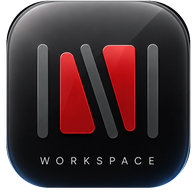
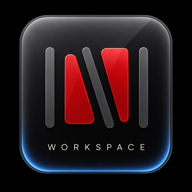
g

diff --git a/index.html b/index.html
@@ -1,12 +1,12 @@
 <!doctype html><html lang="it"><head>
-  <link rel="manifest" href="./manifest.webmanifest?v=18-1">
+  <link rel="manifest" href="./manifest.webmanifest?v=18-2">
   
   
 <meta charset="utf-8"><meta name="viewport" content="width=device-width,initial-scale=1,viewport-fit=cover"><meta name="theme-color" content="#0b0d11"><title>DVS Workspace</title>
 
-<link rel="stylesheet" href="css/app.css?v=18-1">      <link rel="icon" type="image/png" sizes="192x192" href="./assets/workspace-icon-192.png?v=18-1">
-  <link rel="icon" type="image/png" sizes="512x512" href="./assets/workspace-icon-512.png?v=18-1">
-  <link rel="apple-touch-icon" sizes="192x192" href="./assets/workspace-icon-192.png?v=18-1">
+<link rel="stylesheet" href="css/app.css?v=18-2">      <link rel="icon" type="image/png" sizes="192x192" href="./assets/workspace-icon-192.png?v=18-2">
+  <link rel="icon" type="image/png" sizes="512x512" href="./assets/workspace-icon-512.png?v=18-2">
+  <link rel="apple-touch-icon" sizes="180x180" href="./assets/apple-touch-icon.png?v=18-2">
 </head><body>
 <div id="splash" class="splash"><img src="assets/logo-dvs.png" alt="Digital Video Service"></div>
 <section id="login" class="login hidden"><form id="login-form" class="login-card glass"><img src="assets/logo-dvs.png" alt="Digital Video Service"><h1>Gestionale Tecnico</h1><p>Accedi con l'utente creato su Supabase.</p><label>Email<input id="email" type="email" autocomplete="username" required></label><label>Password<input id="password" type="password" autocomplete="current-password" required></label>
@@ -17,5 +17,5 @@
 <section class="workspace"><header class="topbar glass"><div><small id="greeting">Digital Video Service</small><h1 id="title">Dashboard</h1></div><div class="top-actions"><button id="search-btn" class="icon-btn" title="Ricerca">⌕</button><button id="add-btn" class="icon-btn add" title="Aggiungi">＋</button></div></header><main id="app"></main></section>
 <nav id="mobile-nav" class="mobile-nav glass"></nav></div>
 <dialog id="modal"><div id="modal-body" class="modal-card glass"></div></dialog><dialog id="sheet"><div id="sheet-body" class="sheet-card glass"></div></dialog><div id="toast" class="toast hidden"></div>
-<script src="js/pdf-lib.min.js?v=18-1"></script>
-<script type="module" src="js/app.js?v=18-1"></script></body></html>
+<script src="js/pdf-lib.min.js?v=18-2"></script>
+<script type="module" src="js/app.js?v=18-2"></script></body></html>

diff --git a/js/app.js b/js/app.js
@@ -3,8 +3,8 @@ import { loadAll, saveRow, removeRow, archiveRow, assignResource, assignPlugin, 
 import { esc, fmtDate, numSort, licenseStatus, cycleLabel, todayISO } from './utils.js';
 
 const APP_NAME='DVS Workspace';
-const APP_VERSION='18.1';
-const APP_RELEASE='Workspace v18.1 · 08/2026';
+const APP_VERSION='18.2';
+const APP_RELEASE='Workspace v18.2 · 08/2026';
 const DATABASE_SCHEMA='4.3.1 + V12 backup metadata';
 
 const VAPID_PUBLIC_KEY='BLidTsO_r-SgpMHvPD0KC3jv39ZHLcdOfoTAR0IHDemM1dTQrLUM7WoUCA8FwfxXlCmA_KV4rnEXdBqlCXixNJc';
@@ -2475,7 +2475,7 @@ function base64UrlToUint8Array(value){
 function pushSupported(){
   return 'serviceWorker' in navigator&&'PushManager' in window&&'Notification' in window;
 }
-const SERVICE_WORKER_URL='./sw.js?v=18-1';
+const SERVICE_WORKER_URL='./sw.js?v=18-2';
 let serviceWorkerRegistrationPromise=null;
 async function ensureServiceWorkerRegistration(){
   if(!('serviceWorker' in navigator))throw new Error('Il Service Worker non è supportato da questo browser.');

diff --git a/sw.js b/sw.js
@@ -1,10 +1,10 @@
-const CACHE='dvs-workspace-v18-1';
+const CACHE='dvs-workspace-v18-2';
 const ASSETS=[
   './',
   './index.html',
-  './css/app.css?v=18-1',
-  './js/app.js?v=18-1',
-  './js/pdf-lib.min.js?v=18-1',
+  './css/app.css?v=18-2',
+  './js/app.js?v=18-2',
+  './js/pdf-lib.min.js?v=18-2',
   './js/api.js',
   './js/config.js',
   './js/supabase.js',
@@ -15,7 +15,7 @@ const ASSETS=[
   './assets/apple-touch-icon.png',
   './assets/workspace-icon-192.png',
   './assets/workspace-icon-512.png',
-  './manifest.webmanifest?v=18-1',
+  './manifest.webmanifest?v=18-2',
   './manifest.json'
 ];
 
